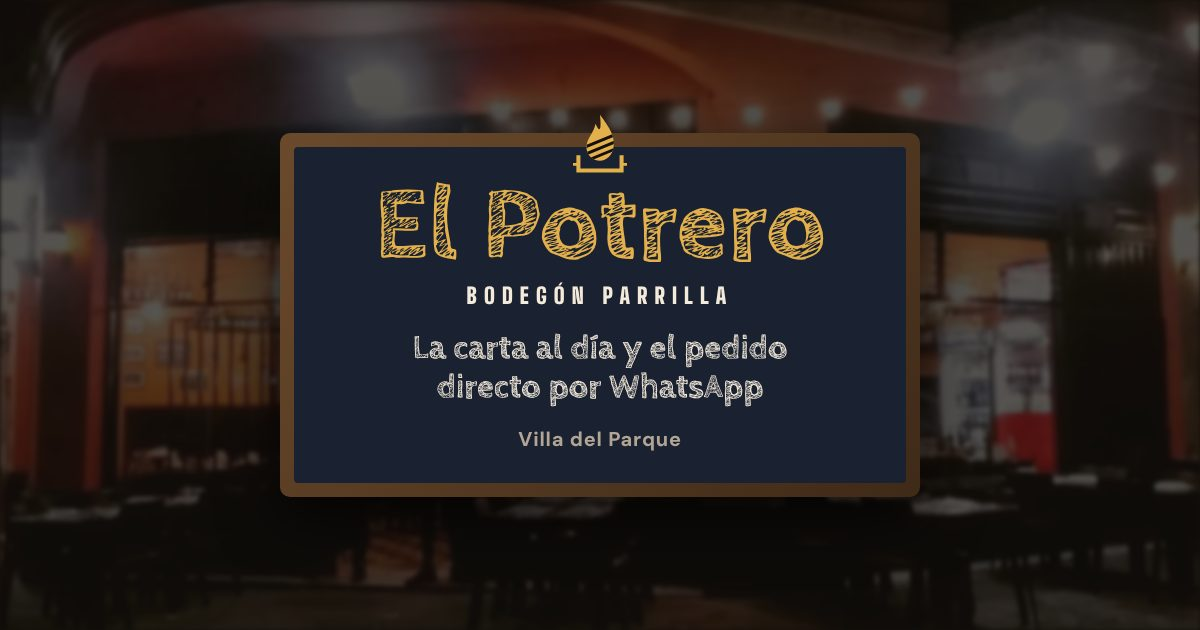
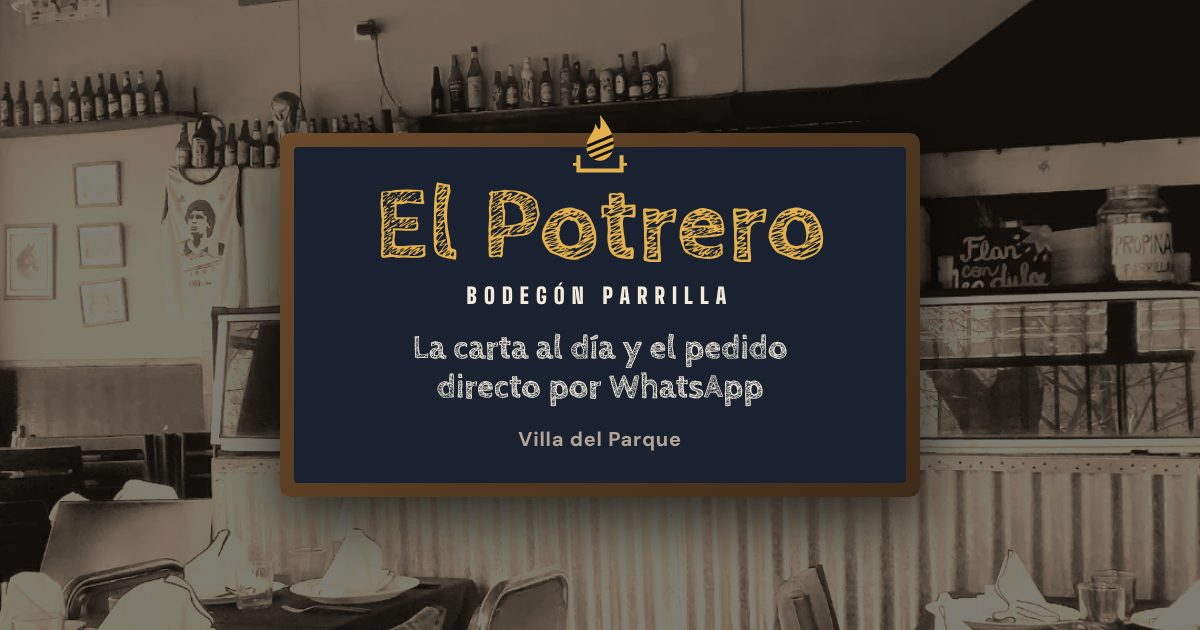
Ajustes de la revisión: WOW con alto fijo, comanda pareja, hero con el salón
Claude-Session: https://claude.ai/code/session_018KHp4nRQeCu37XWdiRpLCW

diff --git a/index.html b/index.html
@@ -10,22 +10,22 @@
 <meta property="og:title" content="El Potrero · Bodegón parrilla en Villa del Parque">
 <meta property="og:description" content="La carta al día, la parrillada que comen 3 y el pedido directo por WhatsApp, sin comisión.">
 <meta property="og:url" content="https://parrilla-el-potrero.vercel.app/">
-<meta property="og:image" content="https://parrilla-el-potrero.vercel.app/img/og.jpg?v=2">
+<meta property="og:image" content="https://parrilla-el-potrero.vercel.app/img/og.jpg?v=4">
 <meta property="og:image:type" content="image/jpeg">
 <meta property="og:image:width" content="1200">
 <meta property="og:image:height" content="630">
-<meta property="og:image:alt" content="El Potrero, bodegón parrilla: su pizarra a tiza sobre la esquina">
+<meta property="og:image:alt" content="El Potrero, bodegón parrilla: su pizarra a tiza">
 <meta name="twitter:card" content="summary_large_image">
-<meta name="twitter:image" content="https://parrilla-el-potrero.vercel.app/img/og.jpg?v=2">
+<meta name="twitter:image" content="https://parrilla-el-potrero.vercel.app/img/og.jpg?v=4">
 <meta name="theme-color" content="#14100C">
 <link rel="icon" href="img/favicon.png">
 <script>if(!matchMedia("(prefers-reduced-motion: reduce)").matches)document.documentElement.classList.add("con-intro")</script>
 <link rel="preload" href="fonts/big-shoulders-display-latin-900-normal.woff2" as="font" type="font/woff2" crossorigin>
 <link rel="preload" href="fonts/cabin-sketch-latin-700-normal.woff2" as="font" type="font/woff2" crossorigin>
-<link rel="stylesheet" href="css/fuentes.css?v=2">
-<link rel="stylesheet" href="kit/kit.css?v=2">
-<link rel="stylesheet" href="css/base.css?v=2">
-<link rel="stylesheet" href="css/web.css?v=2">
+<link rel="stylesheet" href="css/fuentes.css?v=4">
+<link rel="stylesheet" href="kit/kit.css?v=4">
+<link rel="stylesheet" href="css/base.css?v=4">
+<link rel="stylesheet" href="css/web.css?v=4">
 </head>
 <body>
 <div class="intro" aria-hidden="true"><div class="intro__llama"><svg viewBox="0 0 60 72" aria-hidden="true"><defs><clipPath id="llc"><path d="M30 2C41 17 47 26 45 38C44 47 37 53 30 53C22 53 15 47 15 38C15 28 23 23 25 12C29 21 32 22 30 2Z"/></clipPath></defs><path d="M30 2C41 17 47 26 45 38C44 47 37 53 30 53C22 53 15 47 15 38C15 28 23 23 25 12C29 21 32 22 30 2Z" fill="#E3B04B"/><g clip-path="url(#llc)" stroke="#14100C" stroke-width="3.2"><path d="M8 40 L52 22M8 48 L52 30M8 56 L52 38"/></g><path d="M6 47V64H54V47" fill="none" stroke="#E3B04B" stroke-width="4.5"/><path d="M0 57H6M54 57H60" stroke="#E3B04B" stroke-width="3"/></svg></div><div class="intro__nombre">El Potrero</div></div>
@@ -38,7 +38,7 @@
 
 <main>
 <section class="hb" id="inicio">
-  <div class="hb__foto"><picture><source media="(min-width:700px)" srcset="img/esquina-1400.webp"><img src="img/esquina-800.webp" alt="La esquina de El Potrero de noche" width="1080" height="608" fetchpriority="high"></picture></div>
+  <div class="hb__foto"><picture><source media="(min-width:700px)" srcset="img/hero-salon-1400.webp"><img src="img/hero-salon-800.webp" alt="El salón de El Potrero con sus pizarras" width="1080" height="797" fetchpriority="high"></picture></div>
   <div class="hb__bar"><a class="logo" href="#inicio"><span data-llama-destino class="llama-slot"><svg viewBox="0 0 60 72" aria-hidden="true"><defs><clipPath id="llc"><path d="M30 2C41 17 47 26 45 38C44 47 37 53 30 53C22 53 15 47 15 38C15 28 23 23 25 12C29 21 32 22 30 2Z"/></clipPath></defs><path d="M30 2C41 17 47 26 45 38C44 47 37 53 30 53C22 53 15 47 15 38C15 28 23 23 25 12C29 21 32 22 30 2Z" fill="#E3B04B"/><g clip-path="url(#llc)" stroke="#14100C" stroke-width="3.2"><path d="M8 40 L52 22M8 48 L52 30M8 56 L52 38"/></g><path d="M6 47V64H54V47" fill="none" stroke="#E3B04B" stroke-width="4.5"/><path d="M0 57H6M54 57H60" stroke="#E3B04B" stroke-width="3"/></svg></span><span><b>El Potrero</b><small>BODEGÓN PARRILLA</small></span></a></div>
   <div class="hb__col">
     <div class="piz enc" style="--d:0"><div class="piz__in">
@@ -103,9 +103,9 @@
 
 <section class="salon" id="salon" aria-labelledby="t-salon">
   <div class="salon__fotos">
-    <figure class="sf sf--a rv"><img src="img/salon-bn-640.webp" srcset="img/salon-bn-640.webp 640w, img/salon-bn-1200.webp 1080w" sizes="(min-width:1000px) 30vw, 46vw" alt="El salón en blanco y negro" width="1080" height="797" loading="lazy"></figure>
+    <figure class="sf sf--a rv"><img src="img/sal-bifes.webp" alt="Bifes en la tabla, listos para la mesa" width="768" height="509" loading="lazy"></figure>
     <figure class="sf sf--b rv"><img src="img/salon-mostaza-640.webp" srcset="img/salon-mostaza-640.webp 640w, img/salon-mostaza-1200.webp 1080w" sizes="(min-width:1000px) 34vw, 92vw" alt="El salón con las paredes mostaza" width="1080" height="1350" loading="lazy"></figure>
-    <figure class="sf sf--c rv"><img src="img/esquina-800.webp" srcset="img/esquina-800.webp 800w, img/esquina-1400.webp 1080w" sizes="(min-width:1000px) 30vw, 46vw" alt="La esquina de noche" width="1080" height="608" loading="lazy"></figure>
+    <figure class="sf sf--c rv"><img src="img/sal-napo.webp" alt="Milanesa napolitana con fritas" width="900" height="900" loading="lazy"></figure>
   </div>
   <div class="salon__txt rv"><p class="kick">El salón</p><h2 id="t-salon" class="tit-brasa">Mesa de bodegón</h2><p>Para cenar en familia, el cumpleaños o la mesa larga de los viernes. Reservá en un minuto y te esperamos.</p><button class="btn btn--lleno" type="button" data-kit-open="reservas">Reservá tu mesa</button></div>
 </section>
@@ -142,6 +142,6 @@
   <a href="#llegar"><svg viewBox="0 0 24 24" fill="none" stroke="currentColor" stroke-width="2" aria-hidden="true"><path d="M12 21s7-6 7-12a7 7 0 0 0-14 0c0 6 7 12 7 12z"/><circle cx="12" cy="9" r="2.5"/></svg>Llegar</a>
 </nav>
 
-<script type="module" src="js/app.js?v=2"></script>
+<script type="module" src="js/app.js?v=4"></script>
 </body>
 </html>

diff --git a/js/app.js b/js/app.js
@@ -1,5 +1,5 @@
-import { montarParrilla } from './parrilla.js?v=2';
-import { letras, estadoAhora, intro } from './comun.js?v=2';
+import { montarParrilla } from './parrilla.js?v=4';
+import { letras, estadoAhora, intro } from './comun.js?v=4';
 
 const $ = (s, r = document) => r.querySelector(s);
 const $$ = (s, r = document) => [...r.querySelectorAll(s)];
@@ -70,10 +70,11 @@ function pintarCarta() {
   tabs.innerHTML = grupos.map((g, i) => `<button class="tab${i === act ? ' on' : ''}" role="tab" aria-selected="${i === act}" data-i="${i}">${esc(g.c.nombre)}</button>`).join('');
   lista.innerHTML = grupos.map((g, i) => `<div class="cat${i === act ? ' on' : ''}" role="tabpanel" data-i="${i}">
     <div class="cat__cab"><h3>${esc(g.c.nombre)}</h3><span>${g.it.length} ${g.it.length === 1 ? 'opción' : 'opciones'}</span></div>
-    ${g.it.map(p => `<div class="it${p.foto ? ' con-foto' : ''}" data-foto="${esc(p.foto || '')}" data-nom="${esc(p.nombre)}">
-      ${p.foto ? `<div class="it__th"><img src="${esc(p.foto)}" alt="" width="56" height="56" loading="lazy"></div>` : ''}
+    ${g.it.slice(0, 6).map(p => `<div class="it con-foto${p.foto ? ' tiene-foto' : ''}" data-foto="${esc(p.foto || '')}" data-nom="${esc(p.nombre)}">
+      <div class="it__th${p.foto ? '' : ' vacio'}">${p.foto ? `<img src="${esc(p.foto)}" alt="" width="56" height="56" loading="lazy">` : ''}</div>
       <div class="it__t"><b>${esc(p.nombre)}${(p.etiquetas || []).includes('casa') ? '<span class="casa">de la casa</span>' : ''}</b>${p.descripcion ? `<span>${esc(p.descripcion)}</span>` : ''}</div>
       <div class="it__p${p.precio == null ? ' consultar' : ''}">${p.precio == null ? 'Consultar' : plata(p.precio)}</div>${qty(p)}</div>`).join('')}
+    ${g.it.length > 6 ? `<a class="mas-carta" href="carta/">+${g.it.length - 6} más en la carta completa →</a>` : ''}
   </div>`).join('');
   $$('.cat', lista).forEach((c, i) => { c.inert = i !== act; });
   flechas(grupos.length); fotoDe(grupos[act]?.it.find(p => p.foto));
@@ -100,7 +101,7 @@ function fotoDe(p) {
   fImg.classList.remove('ok'); fImg.onload = () => fImg.classList.add('ok'); fImg.src = p.foto; fTxt.textContent = p.nombre;
 }
 lista.addEventListener('pointerover', ev => {
-  if (celu()) return; const it = ev.target.closest('.it.con-foto'); if (!it) return;
+  if (celu()) return; const it = ev.target.closest('.it.tiene-foto'); if (!it) return;
   fotoDe({ foto: it.dataset.foto, nombre: it.dataset.nom });
 });
 // alto fijo: el de la sección más larga, así cambiar de pestaña no mueve nada
@@ -133,9 +134,9 @@ document.addEventListener('kit:carrito', contar);
 
 // ---------- popups del kit: esconder la barra inferior ----------
 new MutationObserver(() => {
-  const abierto = !!document.querySelector('.kit-modal.open, .kit-sheet.open, .kit-overlay.open, [data-kit-modal][open], dialog[open]');
+  const abierto = document.documentElement.classList.contains('kit-lock') || !!document.querySelector('.is-open');
   document.body.classList.toggle('pop-abierto', abierto);
-}).observe(document.body, { subtree: true, attributes: true, attributeFilter: ['class', 'open'], childList: true });
+}).observe(document.documentElement, { subtree: true, attributes: true, attributeFilter: ['class'] });
 
 // ---------- kit ----------
 const { initKit } = await import('../kit/kit.js?v=1');

diff --git a/css/web.css b/css/web.css
@@ -269,3 +269,32 @@ body.ficha-abierta .navapp{transform:translateY(140%);opacity:0}
 }
 .sec-parri .ticket__nom{line-height:1;margin-top:4px}
 @media (max-width:999px){.sec-parri__cuerpo{grid-template-columns:minmax(0,1fr)}.sec-parri .ticket{min-width:0;box-sizing:border-box}}
+
+/* ===== segunda revisión ===== */
+@media (min-width:1000px){.barra{background:#14100C}}
+.hb__foto img{object-position:50% 40%}
+.hb::before{background:linear-gradient(180deg,rgba(20,16,12,.72),rgba(20,16,12,.38) 40%,rgba(20,16,12,.5) 70%,rgba(20,16,12,.94))}
+.hb__foto{filter:sepia(.55) saturate(1.3) hue-rotate(-12deg)}
+.mas-carta{display:inline-block;margin-top:14px;font:700 15px/1 var(--txt);color:var(--ladrillo);text-decoration:none;border-bottom:2px solid currentColor;padding-bottom:3px}
+.it__th.vacio{background:#E5D7BF url(../img/isotipo.svg) center/22px no-repeat;opacity:.9}
+@media (max-width:999px){
+  .sec-parri .ticket{grid-template-columns:minmax(0,1fr) auto;grid-template-rows:auto auto auto auto}
+  .sec-parri .ticket__nom{font-size:23px;white-space:nowrap;grid-column:1;grid-row:1}
+  .sec-parri .ticket__precio{grid-column:2;grid-row:1;align-self:center}
+  .sec-parri .ticket__frase{grid-column:1/-1;grid-row:2;white-space:nowrap;overflow:hidden;text-overflow:ellipsis;font-size:16px;min-height:1.25em}
+  .sec-parri .ticket__nota{grid-row:3}
+  .sec-parri .ticket .ctas{grid-row:4}
+  .sec-parri .cuantos{width:100%;justify-content:space-between;gap:8px}
+  .mesa{width:136px}
+  .plato{width:24px;height:24px}
+  .cuantos__n{min-width:58px}
+}
+.hb::before{background:linear-gradient(180deg,rgba(20,16,12,.9) 0,rgba(20,16,12,.55) 16%,rgba(20,16,12,.4) 40%,rgba(20,16,12,.62) 70%,rgba(20,16,12,.95))}
+.hb__bar .logo small{color:#D8CBB9}
+.hb__ctas .lnk{background:rgba(20,16,12,.8);padding:0 12px;border-radius:4px 4px 0 0}
+/* tercera revisión */
+@media (min-width:1000px){
+  .it.con-foto .it__t b::after{display:none}
+  .it.tiene-foto .it__t b::after{content:"";display:inline-block;width:7px;height:7px;border-radius:50%;background:var(--brasa);margin-left:8px;vertical-align:3px}
+  .sec-parri .ticket__frase{min-height:2.5em}
+}

diff --git a/js/parrilla.js b/js/parrilla.js
@@ -75,7 +75,7 @@ function acomodar(lista) {
   return out;
 }
 const PARRILLADAS = { 2: { kit: 'parrillada-2', nom: 'Parrillada para 2', precio: 59990, comen: 3 }, 3: { kit: 'parrillada-3', nom: 'Parrillada para 3', precio: 79990, comen: 4 }, 4: { kit: 'parrillada-4', nom: 'Parrillada para 4', precio: 99990, comen: 5 } };
-const FRASES = { 1: 'Sos uno: te sobra para mañana', 2: 'Para dos, y sobra', 3: 'Comen 3, lo dice la carta', 4: 'Comen 4, y nadie se pelea', 5: 'Comen 5: mesa larga' };
+const FRASES = { 1: 'Sos uno: sobra para mañana', 2: 'Para dos, y sobra', 3: 'Comen 3, lo dice la carta', 4: 'Comen 4, y nadie se pelea', 5: 'Comen 5: mesa larga' };
 const QUE = n => n <= 3 ? 2 : n === 4 ? 3 : 4;
 const MAX = 5;
 const $p = n => '$' + n.toLocaleString('es-AR');
